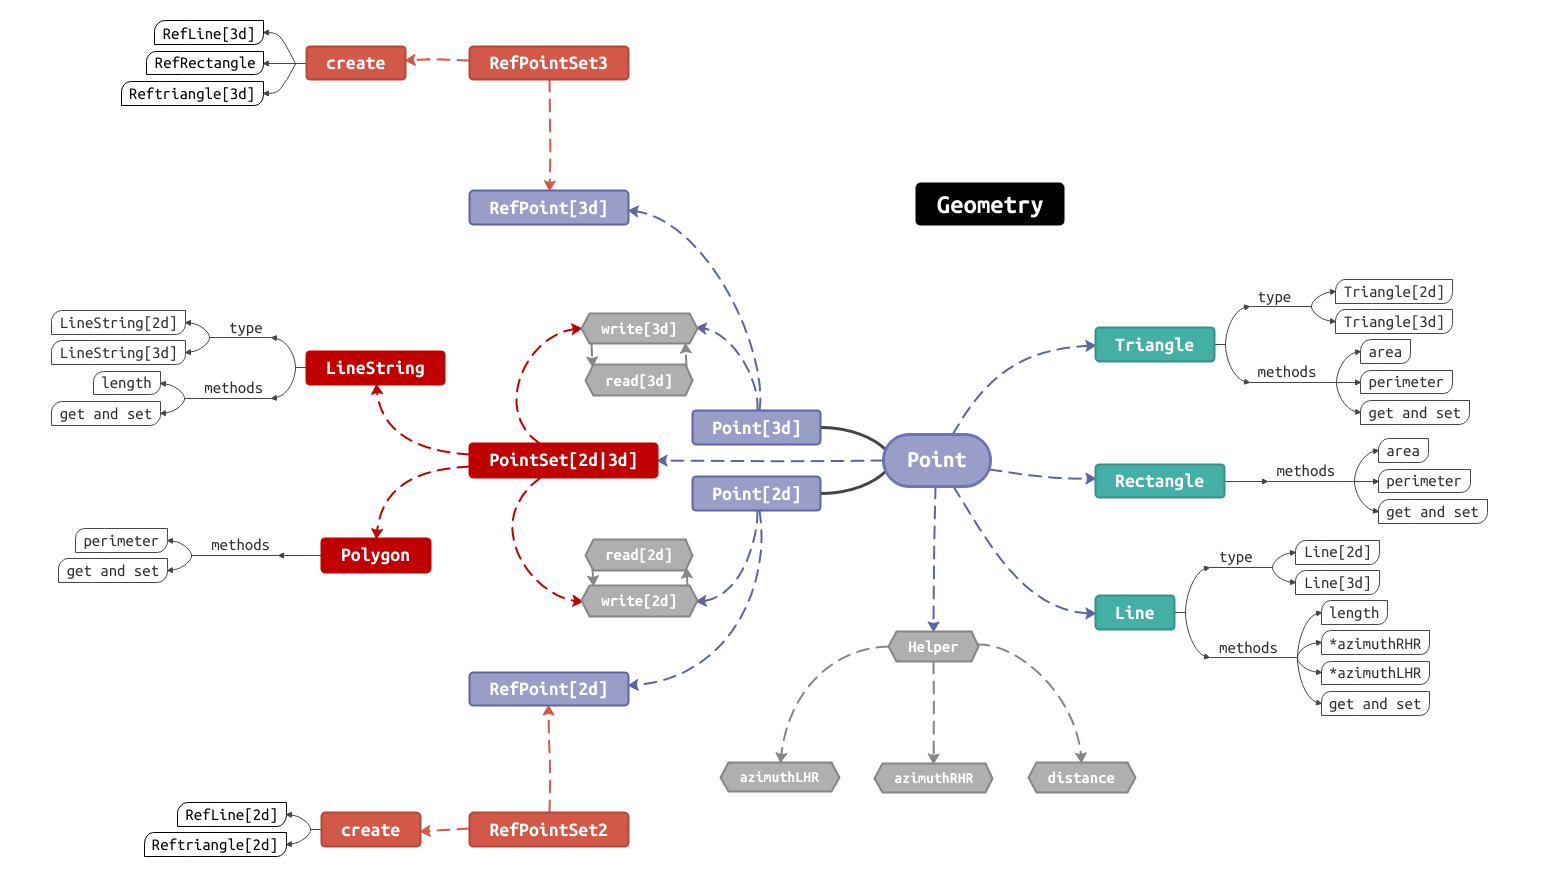
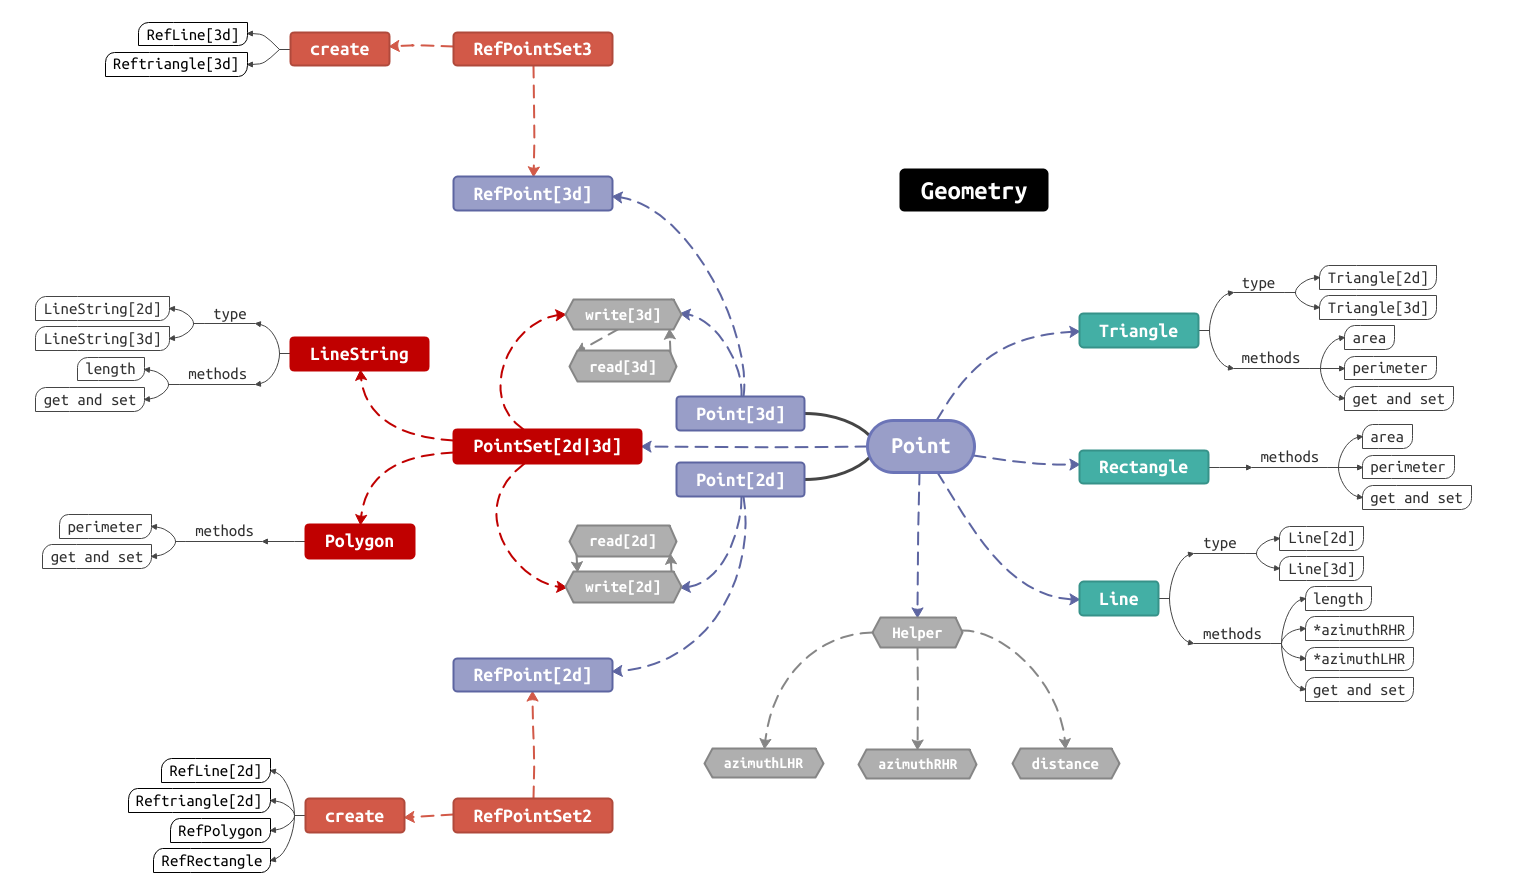
add notes

diff --git a/include/point.hpp b/include/point.hpp
@@ -3,21 +3,16 @@
 /**
  * \brief the details
  *       [1] class type
- *              0. Point2<_Ty>, Point3<_Ty>, PointSet2<_PointType>
- *              1. Point2f, Point3f
- *              2. Point2d, Point3d
- *              3. Point2i, Point3i
- *              4. PointSet<>
- *              5. RefPoint2<>, RefPoint3<>
- *              6. RefPointSet<>
+ *              0. Point2<_Ty>, Point3<_Ty>
+ *              4. PointSet2<_Ty>. PointSet3<_Ty>
+ *              5. RefPoint2<_Ty>, RefPoint3<_Ty>
+ *              6. RefPointSet2<_Ty>, RefPointSet3<_Ty>
  * 
  *       [2] methods
  *              0. writeBinaryData, readBinaryData
  *              1. azimuthRHR, azimuthLHR
  *              2. distance
- *              3. writePoints2, readPoints2
- *              4. writePoints3, readPoints3
- *              5. operator "<<" for Point2<_Ty>, Point3<_Ty>
+ *              3. operator "<<" for Point2<_Ty>, Point3<_Ty>
  */
 
 #include <iostream>

diff --git a/main.cpp b/main.cpp
@@ -20,20 +20,14 @@ void foo_refpolygon()
     rps.insert(p1);
     auto polygon = rps.createRefPolygon({0, 1, 2, 4});
     std::cout << polygon << std::endl;
-    std::cout << polygon.perimeter() << std::endl;
-    polygon.insert(polygon.begin(), 1);
+    std::cout << "perimeter : " << polygon.perimeter() << std::endl;
 }
 
 int main(int argc, char *argv[])
 {
     /** output
-     * {0: [0, 0, 0]}
-     * {2: [0, 0, 1]}
-     * {4: [1, 0, 0]}
-     * {1: [0, 1, 0]}
-     * {0: [0, 0, 0], 1: [0, 1, 0], 2: [0, 0, 1]}
-     * 0.5
-     * 3.41421
+     * {0: [0, 0], 1: [1, 0], 2: [1, 1], 4: [0, 1]}
+     * perimeter : 4
      */
     ::foo_refpolygon();
     return 0;

diff --git a/include/triangle.hpp b/include/triangle.hpp
@@ -4,14 +4,13 @@
  * \brief the details
  *       [1] class type
  *              0. Triangle2<_Ty>, Triangle3<_Ty>
- *              1. Triangle2d, Triangle3d
- *              2. Triangle2f, Triangle3f
- *              3. Triangle2i, Triangle3i
+ *              0. RefTriangle2<_Ty>, RefTriangle3<_Ty>
  * 
  *       [2] methods for Line
  *              0. area
  *              1. perimeter
  *              2. operator "<<" for Triangle2<_Ty>, Triangle3<_Ty>
+ *              2. operator "<<" for RefTriangle2<_Ty>, RefTriangle3<_Ty>
  */
 
 #include "point.hpp"

diff --git a/include/rectangle.hpp b/include/rectangle.hpp
@@ -4,14 +4,13 @@
  * \brief the details
  *       [1] class type
  *              0. Rectangle<_Ty>
- *              1. Rectangled
- *              2. Rectanglef
- *              3. Rectanglei
+ *              1. RefRectangle<_Ty>
  * 
  *       [2] methods for Line
  *              0. area
  *              1. perimeter
  *              2. operator "<<" for Rectangle<_Ty>
+ *              2. operator "<<" for RefRectangle<_Ty>
  */
 
 #include "point.hpp"

diff --git a/include/polygon.hpp b/include/polygon.hpp
@@ -4,13 +4,12 @@
  * \brief the details
  *       [1] class type
  *              0. Polygon<_Ty>
- *              1. Polygond
- *              2. Polygonf
- *              3. Polygoni
+ *              1. RefPolygon<_Ty>
  * 
  *       [2] methods for Polygon
  *              0. perimeter
  *              2. operator "<<" for Polygon<_Ty>
+ *              2. operator "<<" for RefPolygon<_Ty>
  */
 
 #include "point.hpp"

diff --git a/include/line.hpp b/include/line.hpp
@@ -10,6 +10,7 @@
  *              0. azimuthRHR, azimuthLHR
  *              1. length
  *              2. operator "<<" for Line2<_Ty>, Line3<_Ty>
+ *              2. operator "<<" for RefLine2<_Ty>, RefLine3<_Ty>
  */
 
 #include "point.hpp"

diff --git a/readme.md b/readme.md
@@ -537,4 +537,28 @@ void foo_reftriangle3()
  */
 ```
 
+### <kbd>__RefTriangle23<_Ty>___</kbd>  
+
+```cpp
+void foo_refpolygon()
+{
+    RefPoint2d p1(0, RefPoint2d::ary_type{0, 0});
+    RefPoint2d p2(1, RefPoint2d::ary_type{1, 0});
+    RefPoint2d p3(2, RefPoint2d::ary_type{1, 1});
+    RefPoint2d p4(4, RefPoint2d::ary_type{0, 1});
+    RefPointSet2d rps;
+    rps.insert(p2);
+    rps.insert(p4);
+    rps.insert(p3);
+    rps.insert(p1);
+    auto polygon = rps.createRefPolygon({0, 1, 2, 4});
+    std::cout << polygon << std::endl;
+    std::cout << "perimeter : " << polygon.perimeter() << std::endl;
+}
+/** output
+ * {0: [0, 0], 1: [1, 0], 2: [1, 1], 4: [0, 1]}
+ * perimeter : 4
+ */
+```
+
 For other implementation details, please refer to the source code.
